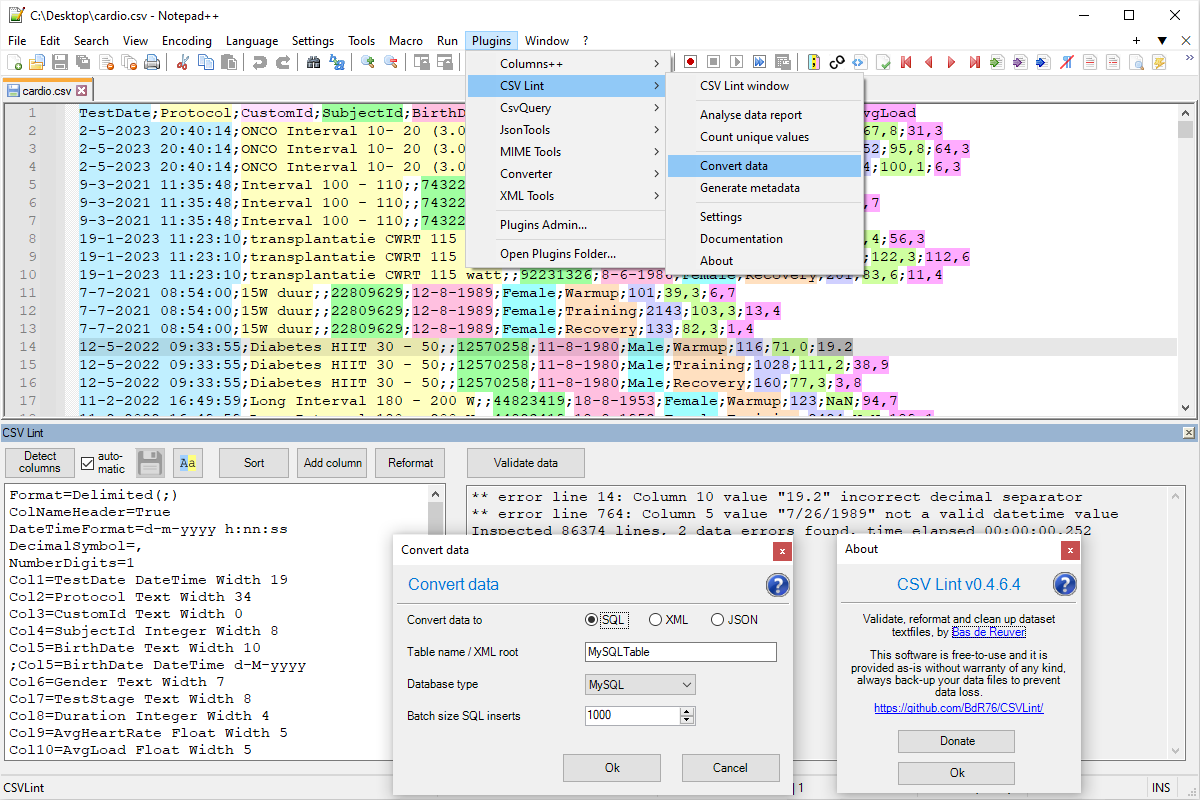
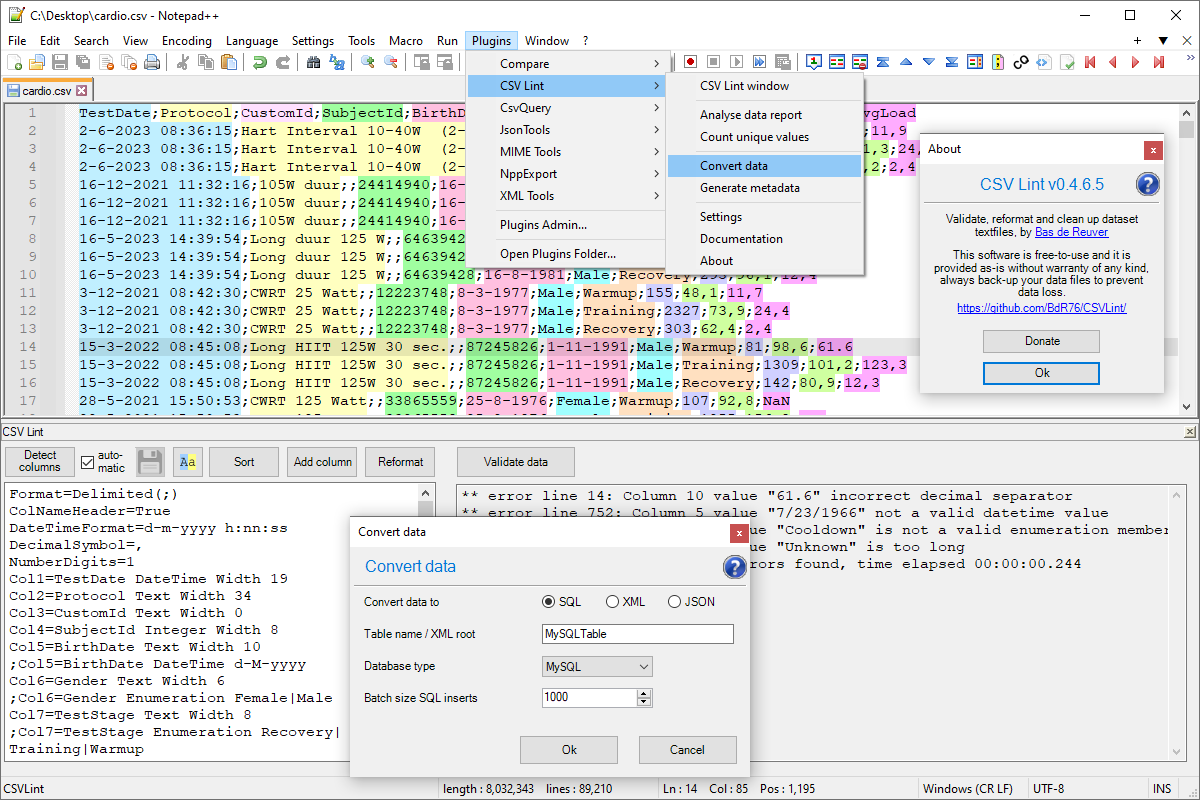
Update readme and preview
Update readme and preview

diff --git a/readme.md b/readme.md
@@ -50,8 +50,8 @@ want to install the plug-in manually:
 
 * Go to the [releases page](https://github.com/BdR76/CSVLint/releases)
 * Find the latest release
-* 32bit version; unzip [CSVLint.dll (32bit)](../../releases/download/0.4.6.4/CSVLint_x86.zip/) to folder `.\Program Files (x86)\Notepad++\plugins\CSVLint\CSVLint.dll`.
-* 64bit version; unzip [CSVLint.dll (64bit)](../../releases/download/0.4.6.4/CSVLint_x64.zip/) to folder `.\Program Files\Notepad++\plugins\CSVLint\CSVLint.dll`.
+* 32bit version; unzip [CSVLint.dll (32bit)](../../releases/download/0.4.6.5/CSVLint_x86.zip/) to folder `.\Program Files (x86)\Notepad++\plugins\CSVLint\CSVLint.dll`.
+* 64bit version; unzip [CSVLint.dll (64bit)](../../releases/download/0.4.6.5/CSVLint_x64.zip/) to folder `.\Program Files\Notepad++\plugins\CSVLint\CSVLint.dll`.
 * restart Notepad++
 
 How to use it

diff --git a/docs/readme.md b/docs/readme.md
@@ -658,6 +658,4 @@ History
 16-apr-2023 - v0.4.6.3 Syntax Highlighting fix, new SkipLines feature and quoted string improvements  
 02-may-2023 - v0.4.6.4 Comment character and dark mode support  
 
-Total downloads v0.4.1 `4.3k`, v0.4.2 `101`, v0.4.3 `12k`, v0.4.4 `16k`, v0.4.5 `16k`, v0.4.5.1 `12k`, v0.4.5.2 `5k`, v0.4.5.3 `470`, v0.4.5.4 `6k`
-
 BdR©2023 Free to use - send questions or comments: Bas de Reuver - bdr1976@gmail.com
